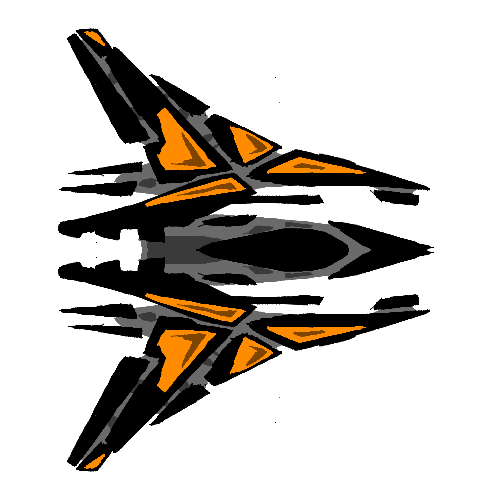
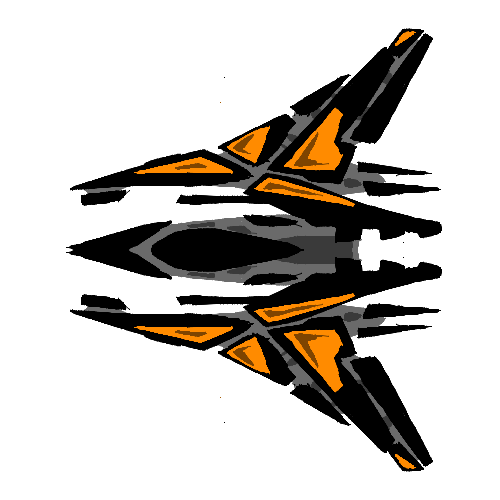
idividual movement enebaled

diff --git a/src/Components/LeftGameBoard.js b/src/Components/LeftGameBoard.js
@@ -1,0 +1,72 @@
+import React, { useEffect, useState } from 'react'
+
+import styles from './CSS/GameLeft.module.css'
+import hero1 from '../images/hero1.png'
+import hero2 from '../images/hero2.png'
+
+function LeftGameBoard({setPlayer, setOpponent,socket, started}) {
+    const VEL = 5;
+    var mySpace;
+
+    const [keysPressed, setKeysPressed] = useState({ArrowLeft: false, ArrowRight: false, ArrowUp: false, ArrowDown: false})
+    var dummyKeysPressed = {...keysPressed}
+    const allowedKeyPress = ["ArrowLeft", "ArrowRight", "ArrowUp", "ArrowDown"]
+
+   const keyDown = (e) =>{
+       if(allowedKeyPress.includes(e.key)){
+           if(dummyKeysPressed[e.key] === false){
+                dummyKeysPressed = {...keysPressed, [e.key]: true}
+                setKeysPressed(dummyKeysPressed)
+           }
+        }
+   }
+
+    const keyUp = (e) =>{
+        if(allowedKeyPress.includes(e.key)){
+            dummyKeysPressed = {...keysPressed, [e.key]: false}
+           setKeysPressed(dummyKeysPressed)
+        }
+    }
+
+    const update = ()=>{
+        if(started){
+            if (dummyKeysPressed["ArrowLeft"] && mySpace.offsetLeft-VEL > 0) {
+                // console.log("l");
+                mySpace.style.left = mySpace.offsetLeft - VEL +"px"
+            }if (dummyKeysPressed["ArrowRight"] && mySpace.offsetLeft + VEL + mySpace.offsetWidth < document.documentElement.clientWidth / 2 -20) {
+                // console.log("r");
+                mySpace.style.left = mySpace.offsetLeft + VEL +"px"
+            }if (dummyKeysPressed["ArrowUp"] && mySpace.offsetTop - VEL - mySpace.offsetHeight / 2 > 0) {
+                // console.log("u");
+                mySpace.style.top = mySpace.offsetTop - VEL +"px"
+            }if(dummyKeysPressed["ArrowDown"] && mySpace.offsetTop + VEL + mySpace.offsetHeight - mySpace.offsetHeight / 2  < document.documentElement.clientHeight) {
+                // console.log("d");
+                mySpace.style.top = mySpace.offsetTop + VEL +"px"
+            }
+            requestAnimationFrame(update)
+        }
+    }
+
+    useEffect(() => {
+        mySpace = document.getElementById(styles.mySpaceShip)
+        document.addEventListener("keydown", keyDown)
+        document.addEventListener("keyup", keyUp)
+        requestAnimationFrame(update)
+    }, [])
+
+    useEffect(() => {
+        // console.log("UPDATED=>", keysPressed);
+        // TODO EMIT TO SERVER
+        // socket.emit("iMoved", keysPressed);
+    }, [keysPressed])
+
+
+    return (
+        <div className={styles.gameBoard}>
+            <div id={styles.mySpaceShip} />
+            <div id={styles.enemySpaceShip} />
+        </div>
+    )
+}
+
+export default LeftGameBoard

diff --git a/src/Components/RightGameBoard.js b/src/Components/RightGameBoard.js
@@ -1,0 +1,69 @@
+import React, { useEffect, useState } from 'react'
+import styles from './CSS/GameRight.module.css'
+
+function RightGameBoard({setPlayer, setOpponent,socket, started}) {
+    const VEL = 5;
+    var mySpace;
+
+    const [keysPressed, setKeysPressed] = useState({ArrowLeft: false, ArrowRight: false, ArrowUp: false, ArrowDown: false})
+    var dummyKeysPressed = {...keysPressed}
+    const allowedKeyPress = ["ArrowLeft", "ArrowRight", "ArrowUp", "ArrowDown"]
+
+   const keyDown = (e) =>{
+       if(allowedKeyPress.includes(e.key)){
+           if(dummyKeysPressed[e.key] === false){
+                dummyKeysPressed = {...keysPressed, [e.key]: true}
+                setKeysPressed(dummyKeysPressed)
+           }
+        }
+   }
+
+    const keyUp = (e) =>{
+        if(allowedKeyPress.includes(e.key)){
+            dummyKeysPressed = {...keysPressed, [e.key]: false}
+           setKeysPressed(dummyKeysPressed)
+        }
+    }
+
+    const update = ()=>{
+        if(started){
+            if (dummyKeysPressed["ArrowLeft"] && mySpace.offsetLeft-VEL > document.documentElement.clientWidth / 2 + 20) {
+                // console.log("l");
+                mySpace.style.left = mySpace.offsetLeft - VEL +"px"
+            }if (dummyKeysPressed["ArrowRight"] && mySpace.offsetLeft + VEL + mySpace.offsetWidth < document.documentElement.clientWidth) {
+                // console.log("r");
+                mySpace.style.left = mySpace.offsetLeft + VEL +"px"
+            }if (dummyKeysPressed["ArrowUp"] && mySpace.offsetTop - VEL - mySpace.offsetHeight / 2 > 0) {
+                // console.log("u");
+                mySpace.style.top = mySpace.offsetTop - VEL +"px"
+            }if(dummyKeysPressed["ArrowDown"] && mySpace.offsetTop + VEL + mySpace.offsetHeight - mySpace.offsetHeight / 2  < document.documentElement.clientHeight) {
+                // console.log("d");
+                mySpace.style.top = mySpace.offsetTop + VEL +"px"
+            }
+            requestAnimationFrame(update)
+        }
+    }
+
+    useEffect(() => {
+        mySpace = document.getElementById(styles.mySpaceShip)
+        document.addEventListener("keydown", keyDown)
+        document.addEventListener("keyup", keyUp)
+        requestAnimationFrame(update)
+    }, [])
+
+    useEffect(() => {
+        // console.log("UPDATED=>", keysPressed);
+        // TODO EMIT TO SERVER
+        // socket.emit("iMoved", keysPressed);
+    }, [keysPressed])
+
+
+    return (
+        <div className={styles.gameBoard}>
+            <div id={styles.enemySpaceShip} />
+            <div id={styles.mySpaceShip} />
+        </div>
+    )
+}
+
+export default RightGameBoard;

diff --git a/src/Components/CSS/GameLeft.module.css b/src/Components/CSS/GameLeft.module.css
@@ -1,0 +1,50 @@
+.gameBoard{
+    position: relative;
+    top: 0;
+    left: 0;
+    width: 100vw;
+    height: 100vh;
+}
+
+#mySpaceShip{
+    background-image: url("../../images/hero1.png");
+    /* background-color: aqua; */
+    position: absolute;
+    z-index: -1;
+    height: 9vw;
+    width: 10vw;
+    top: 50%;
+    transform: translateY(-50%);
+    left: 0px;
+
+    max-width: 200px;
+    max-height: 200px;
+    min-width: 100px;
+    min-height: 100px;    
+
+    background-repeat: no-repeat;
+    background-size: 100%;
+    background-position-x: 10px;
+    background-position-y: -10px;
+}
+
+#enemySpaceShip{
+    background-image: url("../../images/hero3.png");
+    /* background-color: aqua; */
+    position: absolute;
+    z-index: -1;
+    height: 9vw;
+    width: 10vw;
+    top: 50%;
+    transform: translateY(-50%);
+    right: 0px;
+
+    max-width: 200px;
+    max-height: 200px;
+    min-width: 100px;
+    min-height: 100px;
+    background-repeat: no-repeat;
+    background-size: 100%;
+    background-position-x: -14px;
+    background-position-y: -10px;
+}

diff --git a/src/Components/CSS/GameRight.module.css b/src/Components/CSS/GameRight.module.css
@@ -1,0 +1,50 @@
+.gameBoard{
+    position: relative;
+    top: 0;
+    left: 0;
+    width: 100vw;
+    height: 100vh;
+}
+
+#mySpaceShip{
+    background-image: url("../../images/hero3.png");
+    /* background-color: aqua; */
+    position: absolute;
+    z-index: -1;
+    height: 9vw;
+    width: 10vw;
+    top: 50%;
+    transform: translateY(-50%);
+    right: 0px;
+
+    max-width: 200px;
+    max-height: 200px;
+    min-width: 100px;
+    min-height: 100px;    
+
+    background-repeat: no-repeat;
+    background-size: 100%;
+    background-position-x: 10px;
+    background-position-y: -10px;
+}
+
+#enemySpaceShip{
+    background-image: url("../../images/hero1.png");
+    /* background-color: aqua; */
+    position: absolute;
+    z-index: -1;
+    height: 9vw;
+    width: 10vw;
+    top: 50%;
+    transform: translateY(-50%);
+    left: 0px;
+
+    max-width: 200px;
+    max-height: 200px;
+    min-width: 100px;
+    min-height: 100px;
+    background-repeat: no-repeat;
+    background-size: 100%;
+    background-position-x: -14px;
+    background-position-y: -10px;
+}

diff --git a/src/Components/GameScreen.js b/src/Components/GameScreen.js
@@ -2,18 +2,26 @@ import React from 'react'
 import LeftSidePlayer from './LeftSidePlayer'
 import RightSidePlayer from './RightSidePlayer'
 
-function GameScreen({playerPosition, player, opponent}) {
+function GameScreen({playerPosition, player, opponent, setPlayer, setOpponent,socket, started}) {
     return (
         <>
         {playerPosition?
             <LeftSidePlayer 
                 player={player}
                 opponent={opponent}
+                setPlayer={setPlayer}
+                setOpponent={setOpponent}
+                socket={socket}
+                started={started}
             />
             :
             <RightSidePlayer
                 player={player}
                 opponent={opponent}
+                setPlayer={setPlayer}
+                setOpponent={setOpponent}
+                socket={socket}
+                started={started}
             />
                 }
         </>

diff --git a/src/Components/LeftSidePlayer.js b/src/Components/LeftSidePlayer.js
@@ -1,8 +1,8 @@
 import React from 'react'
 import ScoreBoards from './ScoreBoards'
-import hero1 from '../images/hero1.png'
+import LeftGameBoard from './LeftGameBoard'
 
-function LeftSidePlayer({player, opponent}) {
+function LeftSidePlayer({player, opponent, setPlayer, setOpponent,socket, started}) {
     return (
         <>
             <ScoreBoards 
@@ -11,7 +11,12 @@ function LeftSidePlayer({player, opponent}) {
                 leftHeart={player.hearts}
                 rightHeart={opponent.hearts}
                 />
-            <img src={hero1} />
+            <LeftGameBoard 
+                setPlayer={setPlayer}
+                setOpponent={setOpponent}
+                socket={socket}
+                started={started}
+            />
         </>
     )
 }

diff --git a/src/Components/RightSidePlayer.js b/src/Components/RightSidePlayer.js
@@ -1,7 +1,9 @@
 import React from 'react'
 import ScoreBoards from './ScoreBoards'
+import RightGameBoard from './RightGameBoard'
 
-function RightSidePlayer({player, opponent}) {
+
+function RightSidePlayer({player, opponent, setPlayer, setOpponent,socket, started}) {
     return (
         <>
            <ScoreBoards 
@@ -10,6 +12,12 @@ function RightSidePlayer({player, opponent}) {
                 rightHeart={player.hearts}
                 leftHeart={opponent.hearts}
                 /> 
+            <RightGameBoard 
+                setPlayer={setPlayer}
+                setOpponent={setOpponent}
+                socket={socket}
+                started={started}
+            />
         </>
     )
 }

diff --git a/Server/index.js b/Server/index.js
@@ -68,7 +68,6 @@ const joinToRoom = (socket, room) => {
                                     yourPosition: false //RIGHT
                                 })
 
-                console.log("AAAAA: ", rm.members[0].username);
                 // Start game after 5 mins
                 setTimeout(()=>{
                     if(rm.members.length == 2 ){
@@ -110,6 +109,8 @@ const exitTheRoom = (socket) => {
             // notify other player that user left
             if(rm.members.length > 0){
                 rm.members[0].emit("opponentLeft")
+                rm.members[0].leave(rm.id)
+                rm.members.pop()
             }
         }
         return rm

diff --git a/src/Components/CSS/Background.module.css b/src/Components/CSS/Background.module.css
@@ -33,8 +33,9 @@
   background:rgba(51, 51, 51, 0.274) url('/src/images/clouds1.png') repeat;
   /* background-position: 0 -200px; */
   background-position-y: -200%;
+  background-size: 70%;
   opacity: 0.2;
-	animation: move-clouds-back 200s linear infinite;
+	animation: move-clouds-back 800s linear infinite;
 }
 
 @keyframes move-clouds-back {

diff --git a/src/App.js b/src/App.js
@@ -69,6 +69,10 @@ function App() {
             playerPosition={playerPosition}
             player={player}
             opponent={opponent}
+            setPlayer={setPlayer}
+            setOpponent={setOpponent}
+            socket={socket}
+            started={started}
           />:
           <BeforeStart 
             player={player}
